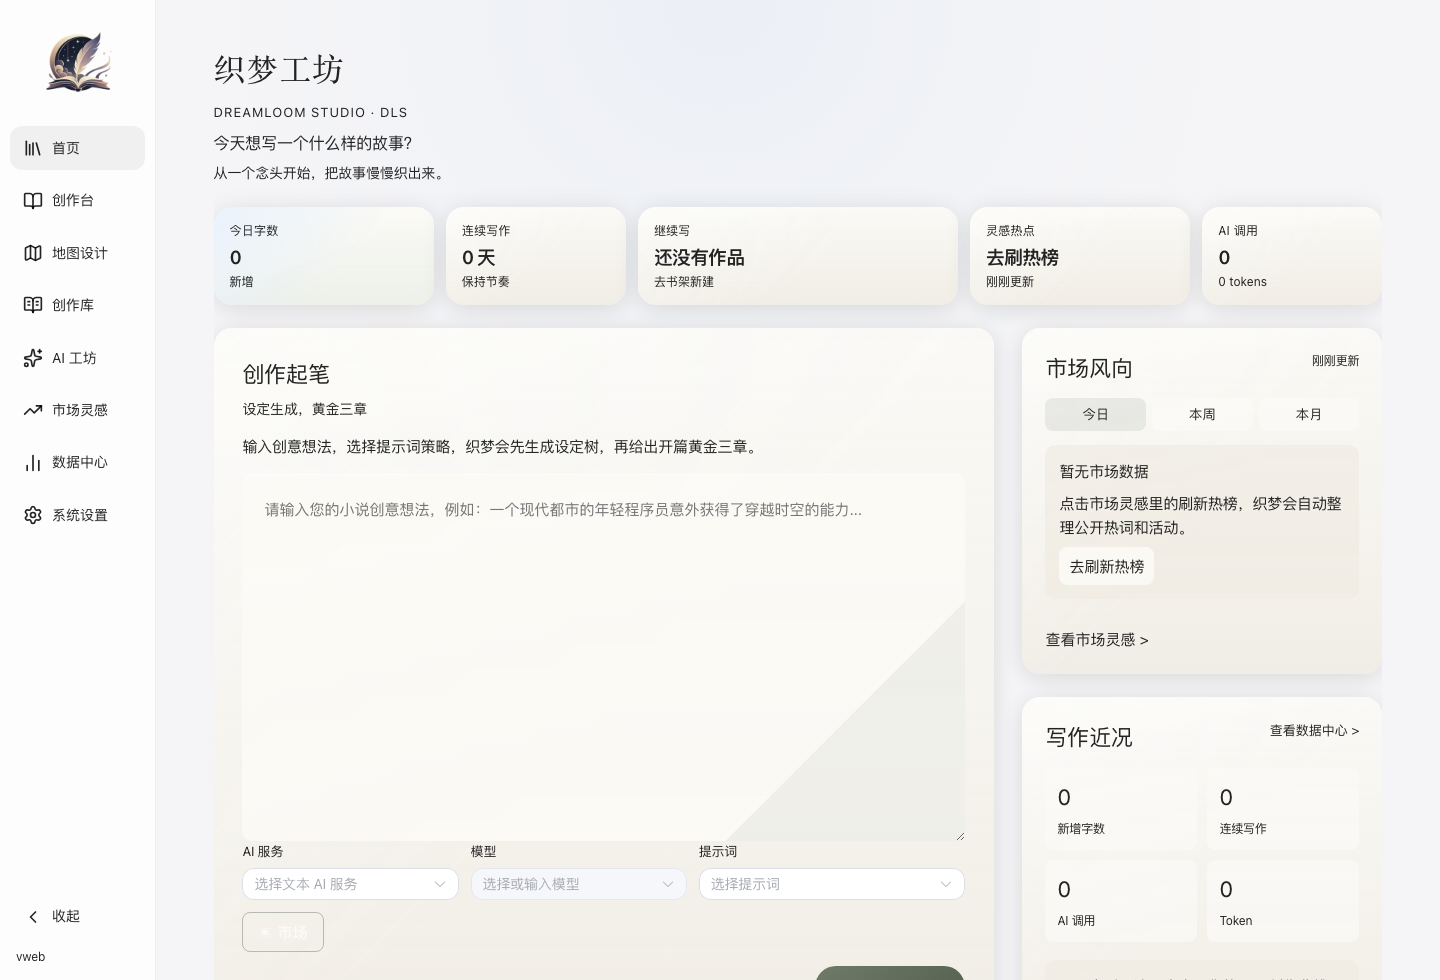
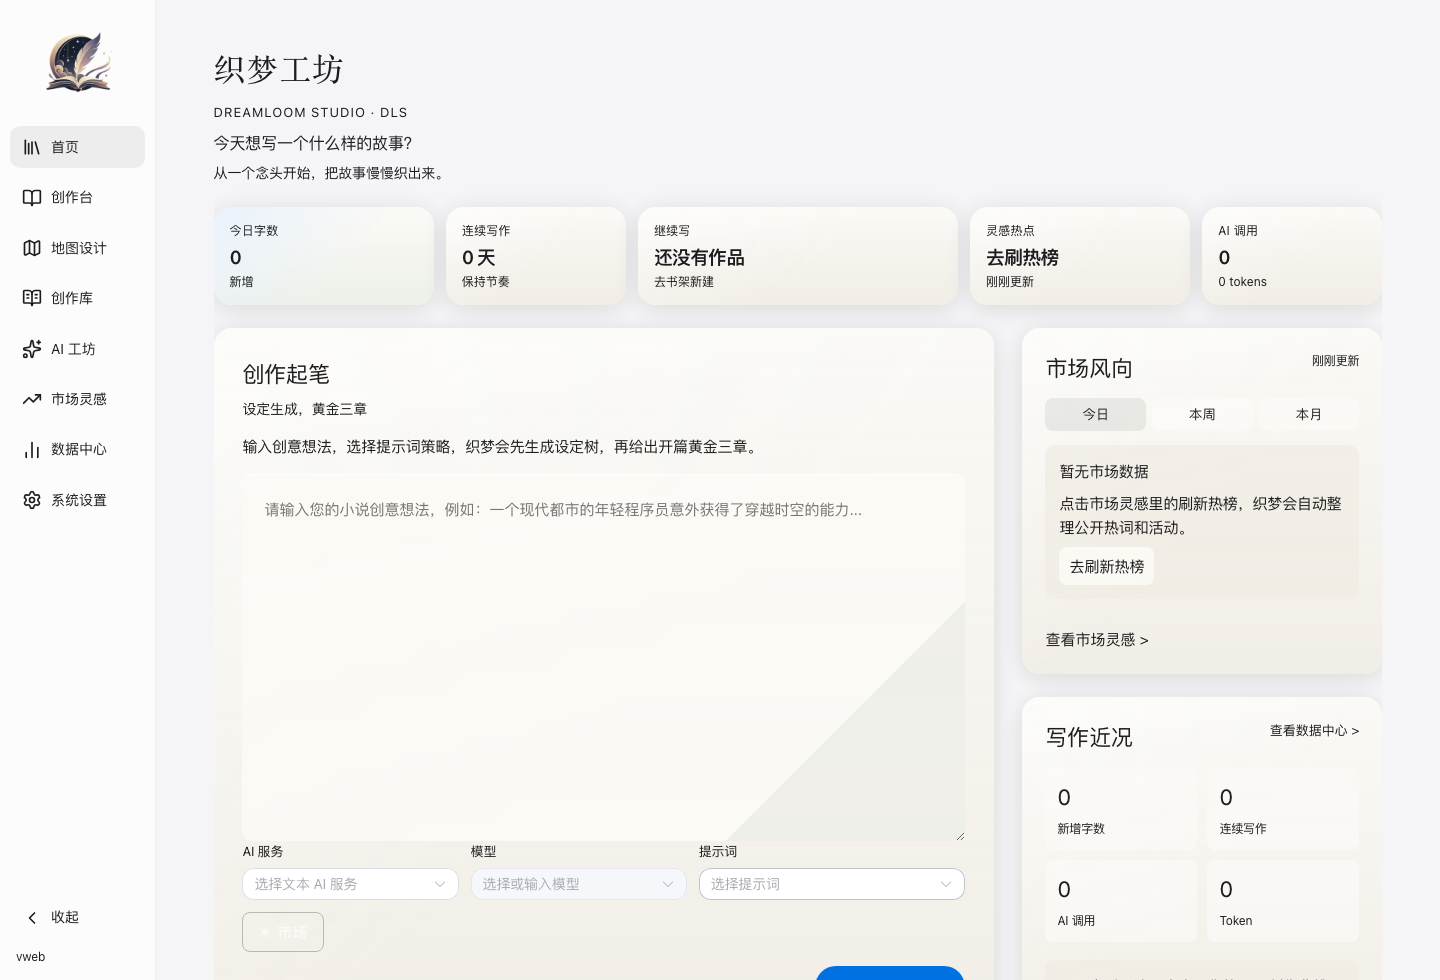
fix: 统一 Apple 极简下设置外观区视觉
右侧主题/风格卡去掉和纸纹理与硬边，改为 Settings 白底分组、细灰边、#0071e3 选中态，与左侧导航一致。

diff --git a/src/renderer/src/assets/styles/visual-styles.css b/src/renderer/src/assets/styles/visual-styles.css
@@ -101,41 +101,299 @@ html[data-visual-style] .el-drawer {
 html[data-visual-style='apple'] body {
   font-family: var(--theme-font-ui);
   -webkit-font-smoothing: antialiased;
+  color: #1d1d1f;
 }
 
 html[data-visual-style='apple'] .app-shell {
-  background:
-    radial-gradient(circle at 50% 0%, rgba(0, 113, 227, 0.04), transparent 42%),
-    #f5f5f7 !important;
-  background-size: auto !important;
+  background: #f5f5f7 !important;
+  background-image: none !important;
+  color: #1d1d1f !important;
 }
 
 html[data-visual-style='apple'] .app-sidebar {
-  background: rgba(255, 255, 255, var(--theme-surface-opacity)) !important;
+  background: rgba(255, 255, 255, 0.72) !important;
   backdrop-filter: saturate(180%) blur(var(--theme-surface-blur));
   -webkit-backdrop-filter: saturate(180%) blur(var(--theme-surface-blur));
   border-right: 1px solid rgba(0, 0, 0, 0.06) !important;
   box-shadow: none !important;
 }
 
+html[data-visual-style='apple'] .app-menu-item {
+  border: 0 !important;
+  border-radius: 10px !important;
+  color: #1d1d1f !important;
+  font-weight: 400 !important;
+}
+
+html[data-visual-style='apple'] .app-menu-item:hover {
+  background: rgba(0, 0, 0, 0.04) !important;
+  border-color: transparent !important;
+  color: #1d1d1f !important;
+  box-shadow: none !important;
+  transform: none !important;
+}
+
 html[data-visual-style='apple'] .app-menu-item.active {
   box-shadow: none !important;
   border-color: transparent !important;
-  background: rgba(0, 0, 0, 0.05) !important;
-  border-radius: 12px !important;
+  background: rgba(0, 0, 0, 0.06) !important;
+  border-radius: 10px !important;
+  color: #1d1d1f !important;
+  font-weight: 500 !important;
 }
 
 html[data-visual-style='apple'] .el-button--primary {
   border-radius: var(--theme-pill-radius) !important;
   border: none !important;
   box-shadow: none !important;
+  background: #0071e3 !important;
   font-weight: 500;
+}
+
+/* 系统设置页：去掉和纸纹理，改成 Settings 白底分组 */
+html[data-visual-style='apple'] .system-settings {
+  color: #1d1d1f !important;
+}
+
+html[data-visual-style='apple'] .settings-body {
+  gap: 0;
+  min-height: calc(100vh - 96px);
+  border-radius: 18px;
+  overflow: hidden;
+  border: 1px solid rgba(0, 0, 0, 0.06);
+  background: #fff;
+  box-shadow: 0 8px 28px rgba(0, 0, 0, 0.06);
+}
+
+html[data-visual-style='apple'] .settings-nav {
+  width: 220px !important;
+  background: #fbfbfd !important;
+  background-image: none !important;
+  border-right: 1px solid rgba(0, 0, 0, 0.06) !important;
+  padding: 18px 12px !important;
+  gap: 2px !important;
+}
+
+html[data-visual-style='apple'] .settings-nav .nav-item {
+  height: 36px !important;
+  border: 0 !important;
+  border-radius: 8px !important;
+  color: #1d1d1f !important;
+  font-size: 13px !important;
+  font-weight: 400 !important;
+  padding: 0 12px !important;
+}
+
+html[data-visual-style='apple'] .settings-nav .nav-item:hover {
+  background: rgba(0, 0, 0, 0.04) !important;
+  border-color: transparent !important;
+}
+
+html[data-visual-style='apple'] .settings-nav .nav-item.active {
+  background: rgba(0, 113, 227, 0.1) !important;
+  border-color: transparent !important;
+  color: #0071e3 !important;
+  font-weight: 500 !important;
+  box-shadow: none !important;
+}
+
+html[data-visual-style='apple'] .settings-main {
+  background: #ffffff !important;
+}
+
+html[data-visual-style='apple'] .settings-main .content-wrapper {
+  max-width: 760px !important;
+  padding: 36px 40px 56px !important;
+}
+
+html[data-visual-style='apple'] .settings-section .section-title {
+  margin: 0 0 8px !important;
+  color: #1d1d1f !important;
+  font-size: 28px !important;
+  font-weight: 600 !important;
+  letter-spacing: -0.02em !important;
+}
+
+html[data-visual-style='apple'] .section-title-spaced {
+  margin-top: 40px !important;
+  padding-top: 28px !important;
+  border-top: 1px solid rgba(0, 0, 0, 0.06);
+}
+
+html[data-visual-style='apple'] .section-hint {
+  margin: 0 0 20px !important;
+  color: #86868b !important;
+  font-size: 13px !important;
+  line-height: 1.5 !important;
+}
+
+html[data-visual-style='apple'] .theme-board,
+html[data-visual-style='apple'] .style-board {
+  gap: 12px !important;
+  grid-template-columns: repeat(auto-fit, minmax(168px, 1fr)) !important;
+}
+
+/* 主题/风格卡：白卡片 + 极轻阴影，不要纸纹边框 */
+html[data-visual-style='apple'] .theme-card,
+html[data-visual-style='apple'] .style-card {
+  min-height: 168px !important;
+  padding: 10px !important;
+  border: 1px solid rgba(0, 0, 0, 0.06) !important;
+  border-radius: 16px !important;
+  background: #f5f5f7 !important;
+  box-shadow: none !important;
+  color: #1d1d1f !important;
+  gap: 10px !important;
 }
 
 html[data-visual-style='apple'] .theme-card:hover,
 html[data-visual-style='apple'] .style-card:hover {
-  transform: scale(1.01);
-  box-shadow: var(--theme-shadow-raised);
+  transform: none !important;
+  border-color: rgba(0, 0, 0, 0.1) !important;
+  background: #f0f0f2 !important;
+  box-shadow: none !important;
+}
+
+html[data-visual-style='apple'] .theme-card.active,
+html[data-visual-style='apple'] .style-card.active {
+  border-color: #0071e3 !important;
+  background: #ffffff !important;
+  box-shadow:
+    0 0 0 3px rgba(0, 113, 227, 0.18),
+    0 8px 24px rgba(0, 0, 0, 0.06) !important;
+}
+
+html[data-visual-style='apple'] .theme-card .theme-preview,
+html[data-visual-style='apple'] .style-card .style-preview {
+  height: 96px !important;
+  border: 0 !important;
+  border-radius: 12px !important;
+  background: #ffffff !important;
+  box-shadow: inset 0 0 0 1px rgba(0, 0, 0, 0.04);
+  overflow: hidden;
+}
+
+/* 预览区：干净桌面，不要网格纸 */
+html[data-visual-style='apple'] .theme-card .theme-preview {
+  background:
+    linear-gradient(180deg, #fbfbfd 0%, #f5f5f7 100%) !important;
+  background-size: auto !important;
+}
+
+html[data-visual-style='apple'] .theme-card .preview-paper {
+  inset: 16px 14px 18px !important;
+  border: 0 !important;
+  border-radius: 10px !important;
+  background: #ffffff !important;
+  box-shadow:
+    0 1px 2px rgba(0, 0, 0, 0.04),
+    0 8px 18px rgba(0, 0, 0, 0.06) !important;
+}
+
+html[data-visual-style='apple'] .theme-card .preview-line {
+  left: 28px !important;
+  height: 3px !important;
+  border-radius: 999px !important;
+  background: rgba(0, 0, 0, 0.12) !important;
+}
+
+html[data-visual-style='apple'] .theme-card .line-one {
+  right: 48px !important;
+  top: 40px !important;
+}
+
+html[data-visual-style='apple'] .theme-card .line-two {
+  right: 64px !important;
+  top: 52px !important;
+  opacity: 0.55 !important;
+}
+
+html[data-visual-style='apple'] .theme-card .preview-dot {
+  width: 14px !important;
+  height: 14px !important;
+  border-radius: 50% !important;
+  border: 0 !important;
+}
+
+html[data-visual-style='apple'] .theme-card .dot-one {
+  right: 24px !important;
+  bottom: 22px !important;
+  background: #0071e3 !important;
+}
+
+html[data-visual-style='apple'] .theme-card .dot-two {
+  right: 44px !important;
+  bottom: 22px !important;
+  background: rgba(0, 113, 227, 0.28) !important;
+}
+
+html[data-visual-style='apple'] .theme-card .theme-label,
+html[data-visual-style='apple'] .style-card .style-label {
+  font-size: 13px !important;
+  font-weight: 500 !important;
+  letter-spacing: -0.01em !important;
+  color: #1d1d1f !important;
+}
+
+html[data-visual-style='apple'] .style-card .style-desc {
+  font-size: 11px !important;
+  color: #86868b !important;
+  line-height: 1.35 !important;
+}
+
+html[data-visual-style='apple'] .theme-card .theme-check,
+html[data-visual-style='apple'] .style-card .theme-check {
+  right: 14px !important;
+  bottom: 12px !important;
+  color: #0071e3 !important;
+}
+
+/* 风格预览小窗：Apple 窗口感 */
+html[data-visual-style='apple'] .style-preview--apple,
+html[data-visual-style='apple'] .style-preview {
+  background: linear-gradient(180deg, #fbfbfd, #f2f2f7) !important;
+}
+
+html[data-visual-style='apple'] .style-preview-bar {
+  top: 12px !important;
+  left: 12px !important;
+  right: 12px !important;
+  height: 12px !important;
+  border: 0 !important;
+  border-radius: 999px !important;
+  background: rgba(0, 0, 0, 0.06) !important;
+  box-shadow: none !important;
+}
+
+html[data-visual-style='apple'] .style-preview-card {
+  left: 12px !important;
+  top: 32px !important;
+  width: 52% !important;
+  height: 44px !important;
+  border: 0 !important;
+  border-radius: 10px !important;
+  background: #ffffff !important;
+  box-shadow: 0 6px 16px rgba(0, 0, 0, 0.08) !important;
+}
+
+html[data-visual-style='apple'] .style-preview-btn {
+  right: 14px !important;
+  bottom: 14px !important;
+  width: 30% !important;
+  height: 20px !important;
+  border: 0 !important;
+  border-radius: 980px !important;
+  background: #0071e3 !important;
+  box-shadow: none !important;
+}
+
+html[data-visual-style='apple'] .setting-card,
+html[data-visual-style='apple'] .security-card,
+html[data-visual-style='apple'] .el-card {
+  border: 1px solid rgba(0, 0, 0, 0.06) !important;
+  border-radius: 16px !important;
+  background: #f5f5f7 !important;
+  box-shadow: none !important;
 }
 
 /* —— 粗犷野兽 —— */